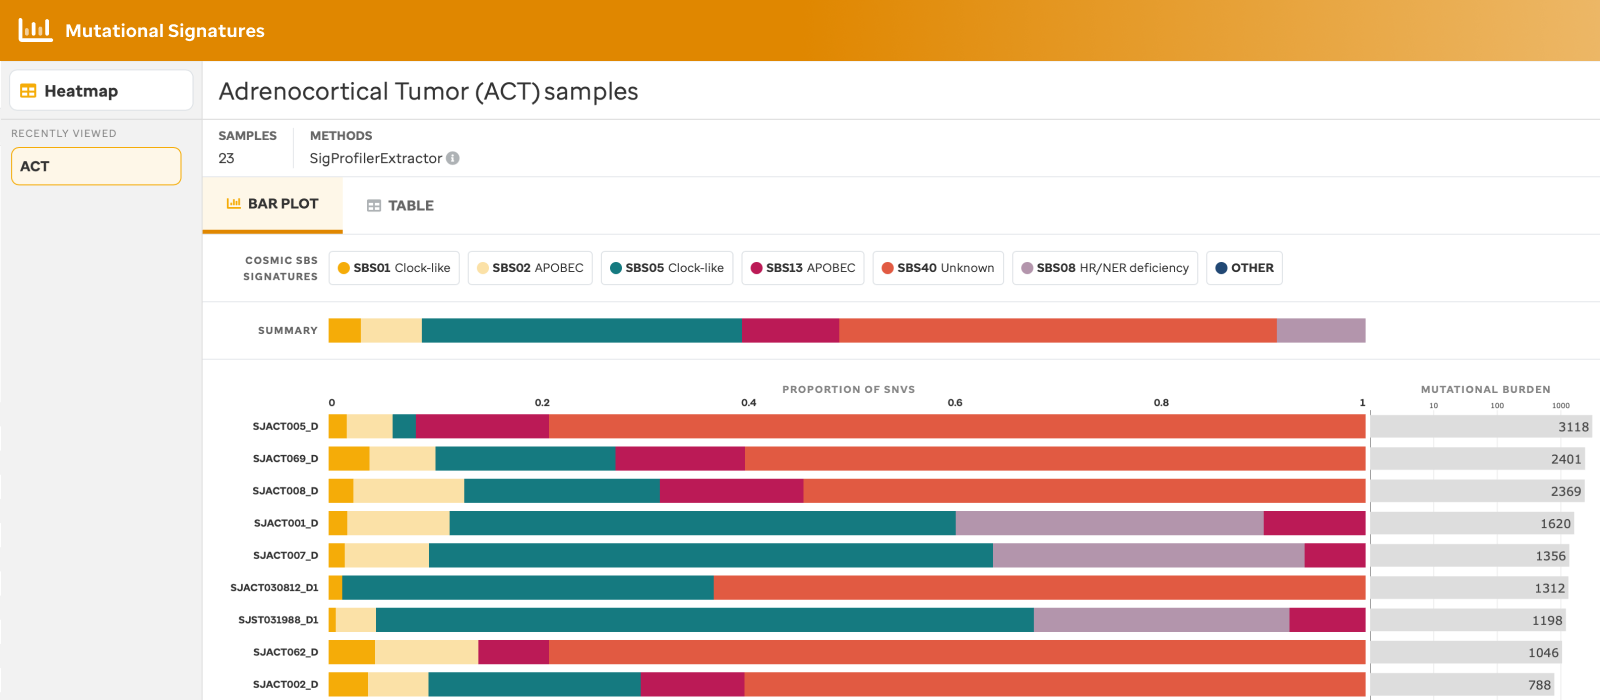
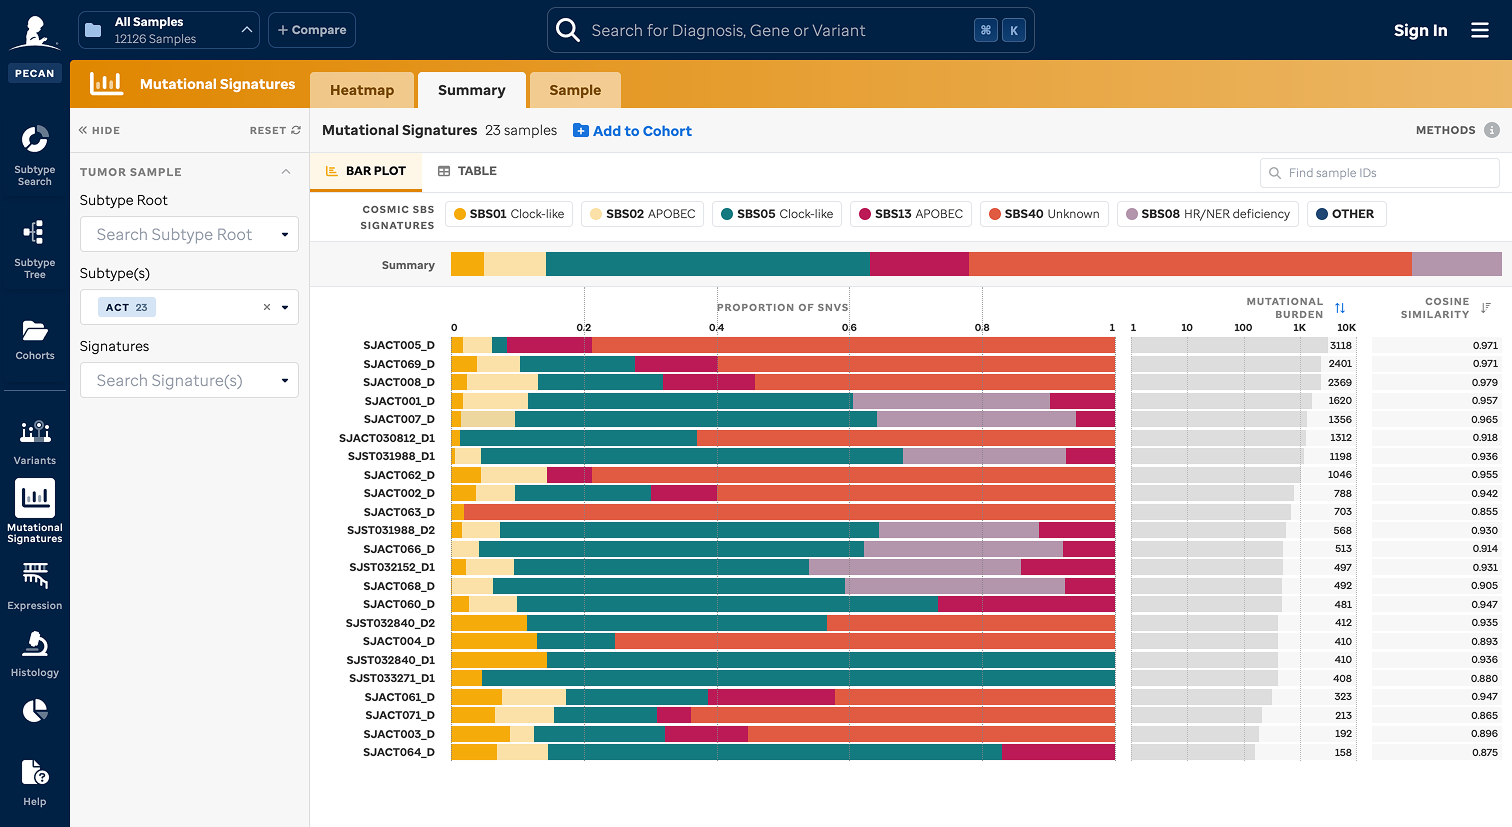
Mutsig cohort nov2026 (#198)
* feat: November 2026 PeCan release notes

- Add Mutational Signatures cohort view entry
- Add Variants entry for genome-wide features and cell line variants
- Add release-notes spelling overrides (PedDep, DepMap, etc.)

* revise: Mutational Signatures docs, figures, and November release notes

- Update page text from the October 2026 revision doc (axes, Summary tab,
  cosine similarity, collapsible metadata, sample type)
- Describe subtype summary tab, new filters, and sample count of over 1,800
- Remove the Recently Viewed section
- Replace Figures 1-7 with current staging screenshots
- Add filters and subtype summary tab to November release notes

* fix: one sentence per line in PeCan release notes

* fix: rename Subtype Search filter to Subtype in Mutational Signatures docs

* feat: add Mutational Signatures cohort view to cohort building page

- Add Mutational Signatures section with cohort and reference data views
- List Mutational Signatures among cohort-supported facets
- Remove it from the planned features list
- Split two-sentence Figure 3 caption line

* fix: place metadata panel on Sample tab and add cohort comparison

- Move metadata panel from the Summary tab to the Sample tab
- Note that two cohorts can be compared in Mutational Signatures

* feat: mutational_sig_cohort_nov2026

---------

diff --git a/content/4.pecan/3.data-facets/2.mutational-signatures.md b/content/4.pecan/3.data-facets/2.mutational-signatures.md
@@ -5,30 +5,35 @@ title: Mutational Signatures
 ![Mutational Signatures](/img/pecan/overview/getting-started/mutational-signatures.svg)
 
 **Overview**
-Analysis of samples from St. Jude Children's Research Hospital, specifically from PCGP, Clinical Pilot, and G4K were demonstrated originally in the [Figure 5 of McLeod et al](https://cancerdiscovery.aacrjournals.org/content/11/5/1082.long).
+Analysis of samples from St. Jude Children's Research Hospital, specifically from PCGP, Clinical Pilot, and G4K were shown originally in [Figure 5 of McLeod et al](https://cancerdiscovery.aacrjournals.org/content/11/5/1082.long).
 Now, Real-time Clinical Genomics samples have been incorporated into the visualization.
 These samples are depicted via a heatmap where COSMIC single base substitution (SBS) mutational signatures in pediatric cancer subtypes were analyzed by WGS.
 
-## HEATMAP VIEW
+## Heatmap View
 
-Identification of COSMIC SBS signatures (v3.3) upon consideration of somatic variants was performed using SigProfilerExtractor (v1.1.20) on pediatric tumor samples grouped by subtype across 2000 samples (**Figure 1**).
-The user can explore a sample summary bar plot view by clicking the subtype (x-axis), SBS signature (y-axis), or the subtype with a particular SBS signature (cell).
+Identification of COSMIC SBS signatures (v3.3) upon consideration of somatic variants was performed using SigProfilerExtractor (v1.1.20) on pediatric tumor samples grouped by subtype across over 1,800 samples (**Figure 1**).
+Users can explore a sample summary bar plot view by clicking the subtype (y-axis), SBS signature (x-axis), the subtype with a particular SBS signature (cell), or the Summary tab.
+Use the Subtype Root, Subtype, and Signatures filters to narrow the heatmap to specific subtypes or COSMIC SBS signatures.
 
 ![heatmap](/img/pecan/data-facets/mutational-signatures/Heatmap.png)
 
 **Figure 1:**
 Heatmap View.
-The heatmap is comprised of sample data and COSMIC SBS mutational signatures that have greater than 0.8 cosine similarity.
+The heatmap is comprised of sample data and COSMIC SBS mutational signatures that have a cosine similarity greater than 0.8.
 
-## BAR PLOT VIEW
+## Summary
 
-A user can view a sample summary bar plot consisting of the mutational signatures (presented in the heatmap) within a given subtype in 3 separate ways: 1) samples by subtype (**Figure 2**), 2) samples by the COSMIC mutational signature (**Figure 3**), or 3) samples for a specific subtype with a specific mutational signature (**Figure 4**).
+Users can view a summary bar plot consisting of the mutational signatures within a given subtype in 4 separate ways: 1) samples by subtype (**Figure 2**), 2) samples by the COSMIC mutational signature (**Figure 3**), 3) samples for a specific subtype with a specific mutational signature (**Figure 4**), or 4) all samples via the Summary tab.
+
+Selecting a subtype takes you to a dedicated summary tab of all samples in that group (**Figure 2**).
+The tab includes a summary of the signatures observed in the samples, the proportion of SNVs per signature in each sample, the mutational burden of each sample, and the cosine similarity score.
+Selecting a sample from the summary opens that sample in a new tab (see [Sample View](#sample-view)).
 
 ![subtype barplot](/img/pecan/data-facets/mutational-signatures/subtype_barplot.png)
 
 **Figure 2:**
 Subtype Selection from Heatmap View.
-This view allows a user to investigate COSMIC mutational signature summaries and mutational burden per sample cohort of a given subtype.
+This view allows a user to investigate COSMIC mutational signature summaries and mutational burden per sample of a given subtype.
 
 ![sbs barplot](/img/pecan/data-facets/mutational-signatures/SBS_barplot.png)
 
@@ -39,17 +44,13 @@ This view allows a user to investigate mutational signature summaries and mutati
 ![subtype sbs barplot](/img/pecan/data-facets/mutational-signatures/subtype_sbs_barplot.png)
 
 **Figure 4:**
-Subtype with a specific COSMIC SBS Selection from Heatmap View.
+Subtype with a specific COSMIC SBS selection from Heatmap View.
 This view allows a user to investigate mutational signature summaries and mutational burden per sample cohort of a given subtype with a specific COSMIC mutational signature.
 
-Each bar plot provides a title, the total number of samples, the method used to identify the mutational signatures, the summary of mutational signatures, the summary of mutational signatures per sample, and the mutational burden per sample.
-Additionally, clicking the mutational signature legend will provide summary data (e.g., total number of SNVs and % within that sample) and a link to the COSMIC website.
-Further, clicking the mutational burden per sample also provides a summary fo the sample name and total number of SNVs found within that individual sample.
+## Table View
 
-## TABLE VIEW
-
-A table view (**Figure 5**) is also available for each bar plot view so that a user can see the same information as the bar plot view but in a tabular manner.
-Sample ID, subtype, the total number of somatic SNVs, the existing mutational signature per sample, and the cosine similarity are given.
+A table view (**Figure 5**) is also available for each summary view so that users can see the same information as the bar plot view in a tabular manner.
+The table view includes Sample ID, subtype, sample type, the total number of somatic SNVs, the existing mutational signature per sample, and the cosine similarity.
 
 ![table view](/img/pecan/data-facets/mutational-signatures/table_view.png)
 
@@ -57,34 +58,19 @@ Sample ID, subtype, the total number of somatic SNVs, the existing mutational si
 Table View:
 The table view is an alternative to the bar plot view for each use case described in **Figures 2-4**.
 
-A user can select a mutational signature (column 4) and see a summary or the call to action to the COSMIC website.
+## Sample View
 
-## SAMPLE VIEW
-
-By selecting an individual sample, the user will navigate to a sample page view (**Figure 6 & 7**), this provides the number of mutations per codon for each base pair change.
-The sample metadata – diagnosis, data type, total somatic SNVs, and reference genome – is given in the top right.
-The colors per base change are related to the COSMIC website.
-Additionally, each SBS mutational signature COSMIC depiction is given as a reference with a link to the website.
+Selecting an individual sample will navigate users to a sample page view (**Figure 6 & 7**), which provides the number of mutations per codon for each base-pair change.
+The sample metadata: diagnosis, sample type, data type, total somatic SNVs, methods, cosine similarity, and reference genome, is available in a collapsible metadata panel to the right of the screen.
+Links to other data facets are available if the sample has data available in other facets of PeCan.
 
 ![sample view](/img/pecan/data-facets/mutational-signatures/sample_view.png)
 
 **Figure 6:**
 Sample View.
-Mutations for each codon by base change for a particular sample with the COSMIC mutational signature references underneath.
+Mutations for each codon by base change for a particular sample.
 
 ![sample view cosmic](/img/pecan/data-facets/mutational-signatures/sample_view_cosmic.png)
 
 **Figure 7:**
 Sample View, COSMIC Mutational Signature Reference.
-COSMIC mutational signature reference found in the sample to be used as a reference during analysis.
-
-An additional feature exists to allow the user to cache the last 5 samples per selection from the user experience.
-This can be helpful when analyzing samples together.
-Once the 6th sample is selected for that cohort, the first sample selected is removed, therefore the queue follows a first in last out methodology.
-The user can also remove samples individually (see hover x in the image) or a user can remove all samples by selecting the hover X button per header.
-
-![recently viewed](/img/pecan/data-facets/mutational-signatures/recently_viewed.png)
-
-**Figure 8:**
-Recently Viewed.
-Functionality to support investigation across samples.

diff --git a/content/4.pecan/2.cohort-building/1.cohort-building.md b/content/4.pecan/2.cohort-building/1.cohort-building.md
@@ -3,7 +3,7 @@ title: Cohort Building
 navigation:
   title: Create Custom Cohorts
 ---
-Cohort features in PeCan allow users to dynamically build and stratify cohorts of samples, then explore their data across OncoPrint, Histology, and Expression.
+Cohort features in PeCan allow users to dynamically build and stratify cohorts of samples, then explore their data across OncoPrint, Histology, Expression, and Mutational Signatures.
 
 ## Getting Started
 
@@ -12,7 +12,7 @@ If you don't have a St. Jude Cloud account, you can find the account creation st
 
 ### Creating a new cohort
 
-Once you are logged in, you can start creating your own custom cohorts through the Subtype Search, Subtype Tree, the Cohorts page, or from one of the following areas of PeCan: OncoPrint, Histology, or Expression.
+Once you are logged in, you can start creating your own custom cohorts through the Subtype Search, Subtype Tree, the Cohorts page, or from one of the following areas of PeCan: OncoPrint, Histology, Expression, or Mutational Signatures.
 
 Select your samples of interest, then select "Add to Cohort."
 The "Add to Cohort" button is available in several locations throughout the app.
@@ -50,13 +50,14 @@ From the Cohort page, you can also create new cohorts from the All Samples datas
 
 ![Cohort Summary Page](/img/pecan/cohort-building/cohort-summary.png)
 **Figure 3: Cohort Summary Page**
-The cohort summary page provides an easy way for you to view all of your cohorts and their associated data in one place. You can add and remove samples, update a cohort's name and description, and export cohort data from this view.
+The cohort summary page provides an easy way for you to view all of your cohorts and their associated data in one place.
+You can add and remove samples, update a cohort's name and description, and export cohort data from this view.
 
 ---
 
 ## Cohort Views in PeCan's Data Facets
 
-To view and compare your cohorts, make your selections in the lens, then navigate to OncoPrint (Variants > OncoPrint), Expression, or Histology to view the samples in the selected cohort(s).
+To view and compare your cohorts, make your selections in the lens, then navigate to OncoPrint (Variants > OncoPrint), Expression, Histology, or Mutational Signatures to view the samples in the selected cohort(s).
 
 ### OncoPrint
 
@@ -94,6 +95,15 @@ A cohort badge icon displays on each slide thumbnail to indicate which cohort it
 ![Cohort View Histology](/img/pecan/cohort-building/histology-cohort.png)
 **Figure 7: Histology Cohort View**
 
+### Mutational Signatures
+
+Select the cohort you'd like to view in the lens.
+The Heatmap and Summary tabs will scope to the samples in your cohort that have mutational signature data available.
+On the Heatmap tab, below your cohort data, you will find reference data for the subtypes in your cohort, with a heatmap scoped to all PeCan samples in those subtypes, not just the samples in your cohort.
+The Summary tab shows the same reference data below your cohort's summary.
+Select another cohort in the lens to compare mutational signatures across the two sets of samples.
+To create a cohort from Mutational Signatures, select "Add to Cohort" from the Heatmap, Summary, or Sample tab.
+
 ---
 
 Don't see your cohort samples?
@@ -101,7 +111,6 @@ Try clearing the page filters from the left-side filter panel, this resolves the
 
 ---
 
-This is the first release of a broader set of cohort-building features on St. Jude Cloud.
-We plan to continue expanding cohort support across the application, including St. Jude Cloud curated cohorts, cohort views in Variant Prevalence and Mutational Signatures, and more.
+We plan to continue expanding cohort support across the application, including St. Jude Cloud curated cohorts, cohort views in Variant Prevalence, and more.
 
 Please share any feedback or questions with <support@stjude.cloud>.

diff --git a/content/4.pecan/6.release-notes/1.index.md b/content/4.pecan/6.release-notes/1.index.md
@@ -10,6 +10,29 @@ Here, you'll find a running log of new features, improvements, and changes we've
 Check back after each release to see what's new!
 If you have any questions, feel free to reach out to us at [support@stjude.cloud](mailto:support@stjude.cloud).
 
+## November 2026
+
+### Mutational Signature Updates
+
+This release extends cohort building to the Mutational Signatures data facet.
+
+- **Cohort View in Mutational Signatures:** Bring a custom cohort into Mutational Signatures to explore that facet's visualizations and data scoped to just your cohort's samples, rather than the full PeCan dataset.
+- **Filters:** Narrow the heatmap with new Subtype Root, Subtype, and Signatures filters.
+- **Subtype summary tab:** Selecting a subtype opens a dedicated summary tab of all samples in that group, showing the signatures observed, the proportion of SNVs per signature in each sample, mutational burden, and cosine similarity score.
+Selecting a sample from the summary opens it in a new Sample tab, which includes a metadata panel.
+
+We plan to continue expanding cohort support across the application, including St. Jude Cloud curated cohorts and cohort views in Variant Prevalence.
+Please share any feedback or questions with [support@stjude.cloud](mailto:support@stjude.cloud).
+
+### Variants
+
+- **Genome-wide features:** The Mutational Prevalence Summary now includes genome-wide features.
+The number of cases with hypermutation or chromothripsis appears in the Variant Prevalence by Pathway legend and under the Genome-wide feature pathway on the x-axis of the Mutational Prevalence Summary.
+- **Cell line variants:** Variant data for 17 St. Jude and PedDep neuroblastoma cell lines can be compared against tumor sample variants in the Variant Prevalence by Pathway plots.
+The plots show the percentage of cell lines with any pathogenic or likely pathogenic SNV/indel, structural variant, or copy number change in each gene.
+Click a cell line prevalence bar to see the number and names of cell lines with variants.
+For PedDep cell lines, select the cell line name to open it in the DepMap portal.
+
 ## October 2026
 
 ### Mutational Signature Facet Updates
@@ -20,7 +43,8 @@ Select "Fit to screen" to resize it so the whole heatmap shows without scrolling
 - **Tabbed navigation:** Switch between the Heatmap, Sample Summary, and Individual Sample tabs without leaving the page or losing your current context.
 - **Sample Summary sortable columns:** The summary view has a new Cosine Similarity column.
 Sort it and the Mutational Burden column in ascending or descending order.
-- **Table design updates:** Each SBS signature in the table is clearly labeled and easy to find. Search for a sample by ID and export the table data.
+- **Table design updates:** Each SBS signature in the table is clearly labeled and easy to find.
+Search for a sample by ID and export the table data.
 - **Metadata table:** Selecting an individual sample shows a metadata table with diagnosis, data type, somatic SNV count, genome, methods, and cosine similarity score for that sample.
 
 ## September 2026
@@ -100,4 +124,5 @@ Our goal is to continue sharpening the experience of using PeCan seamlessly for 
 
 - Accompanying all of the user interface changes, we've updated the position of the Diagnosis Search on the PeCan Homepage to better fit in with the new position of the navbar.
 
-We welcome feedback on these changes! Anyone is welcome to reach out to us at [support@stjude.cloud](mailto:support@stjude.cloud) or via the chat bubble integrated on the site.
+We welcome feedback on these changes!
+Anyone is welcome to reach out to us at [support@stjude.cloud](mailto:support@stjude.cloud) or via the chat bubble integrated on the site.
